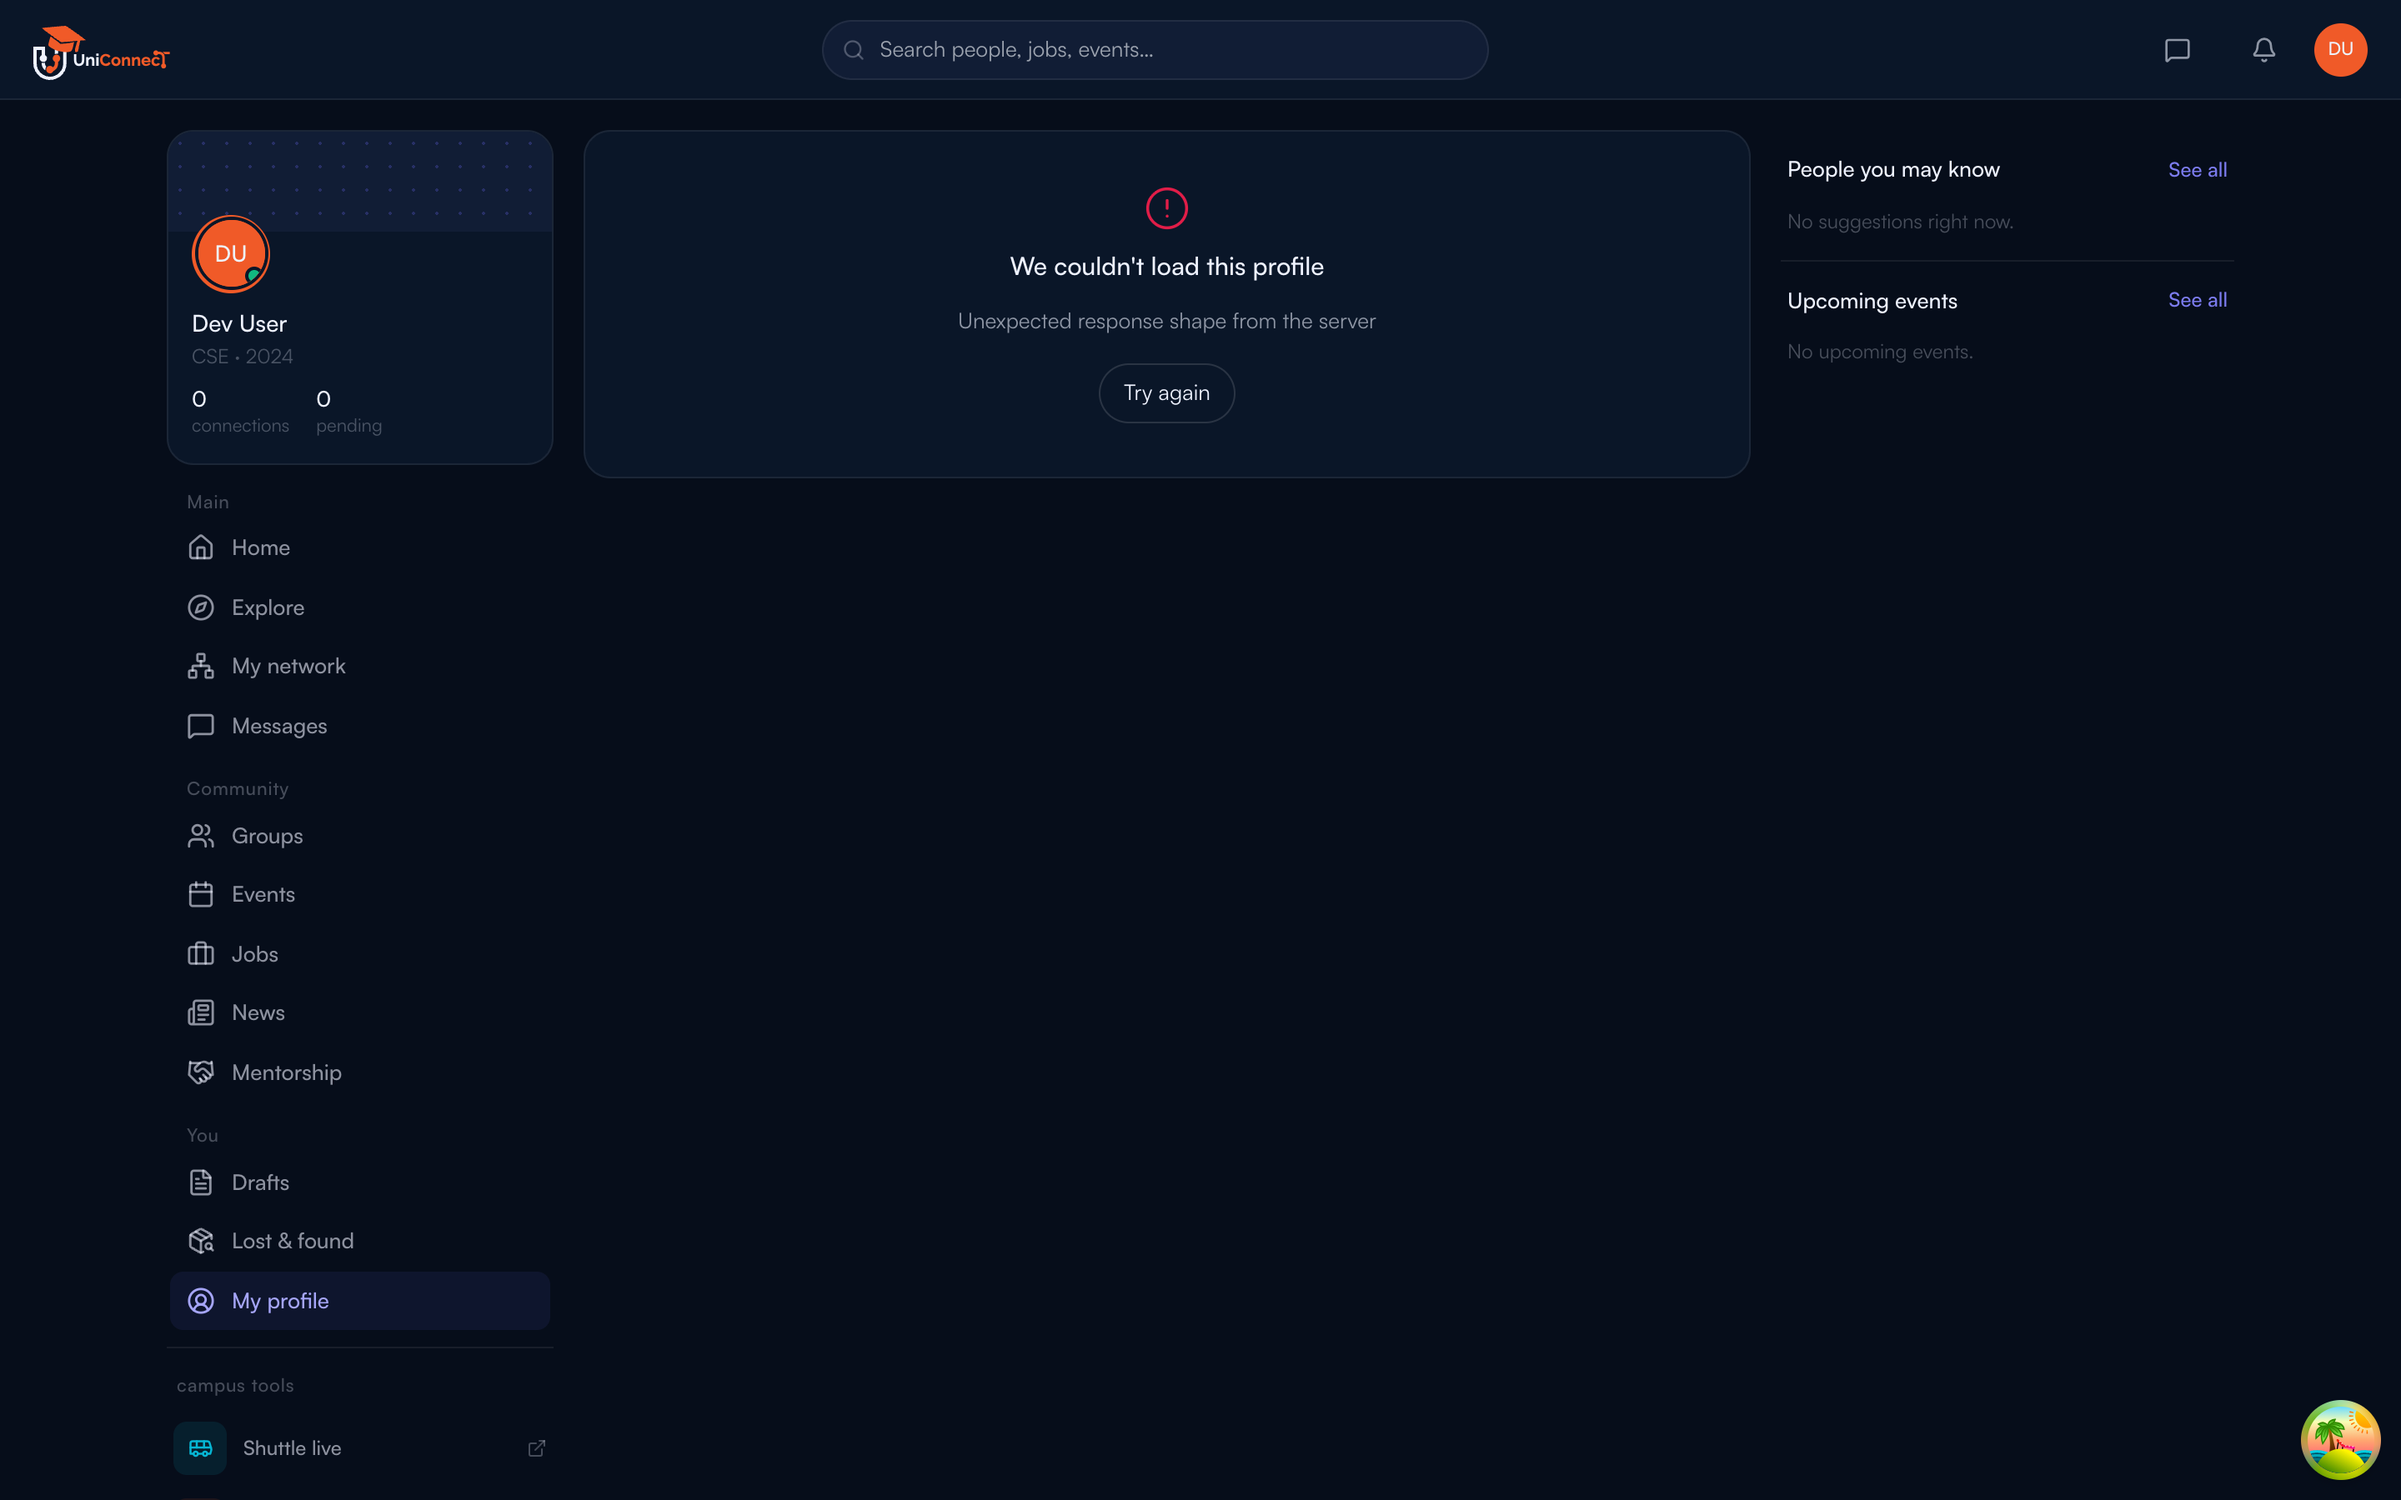
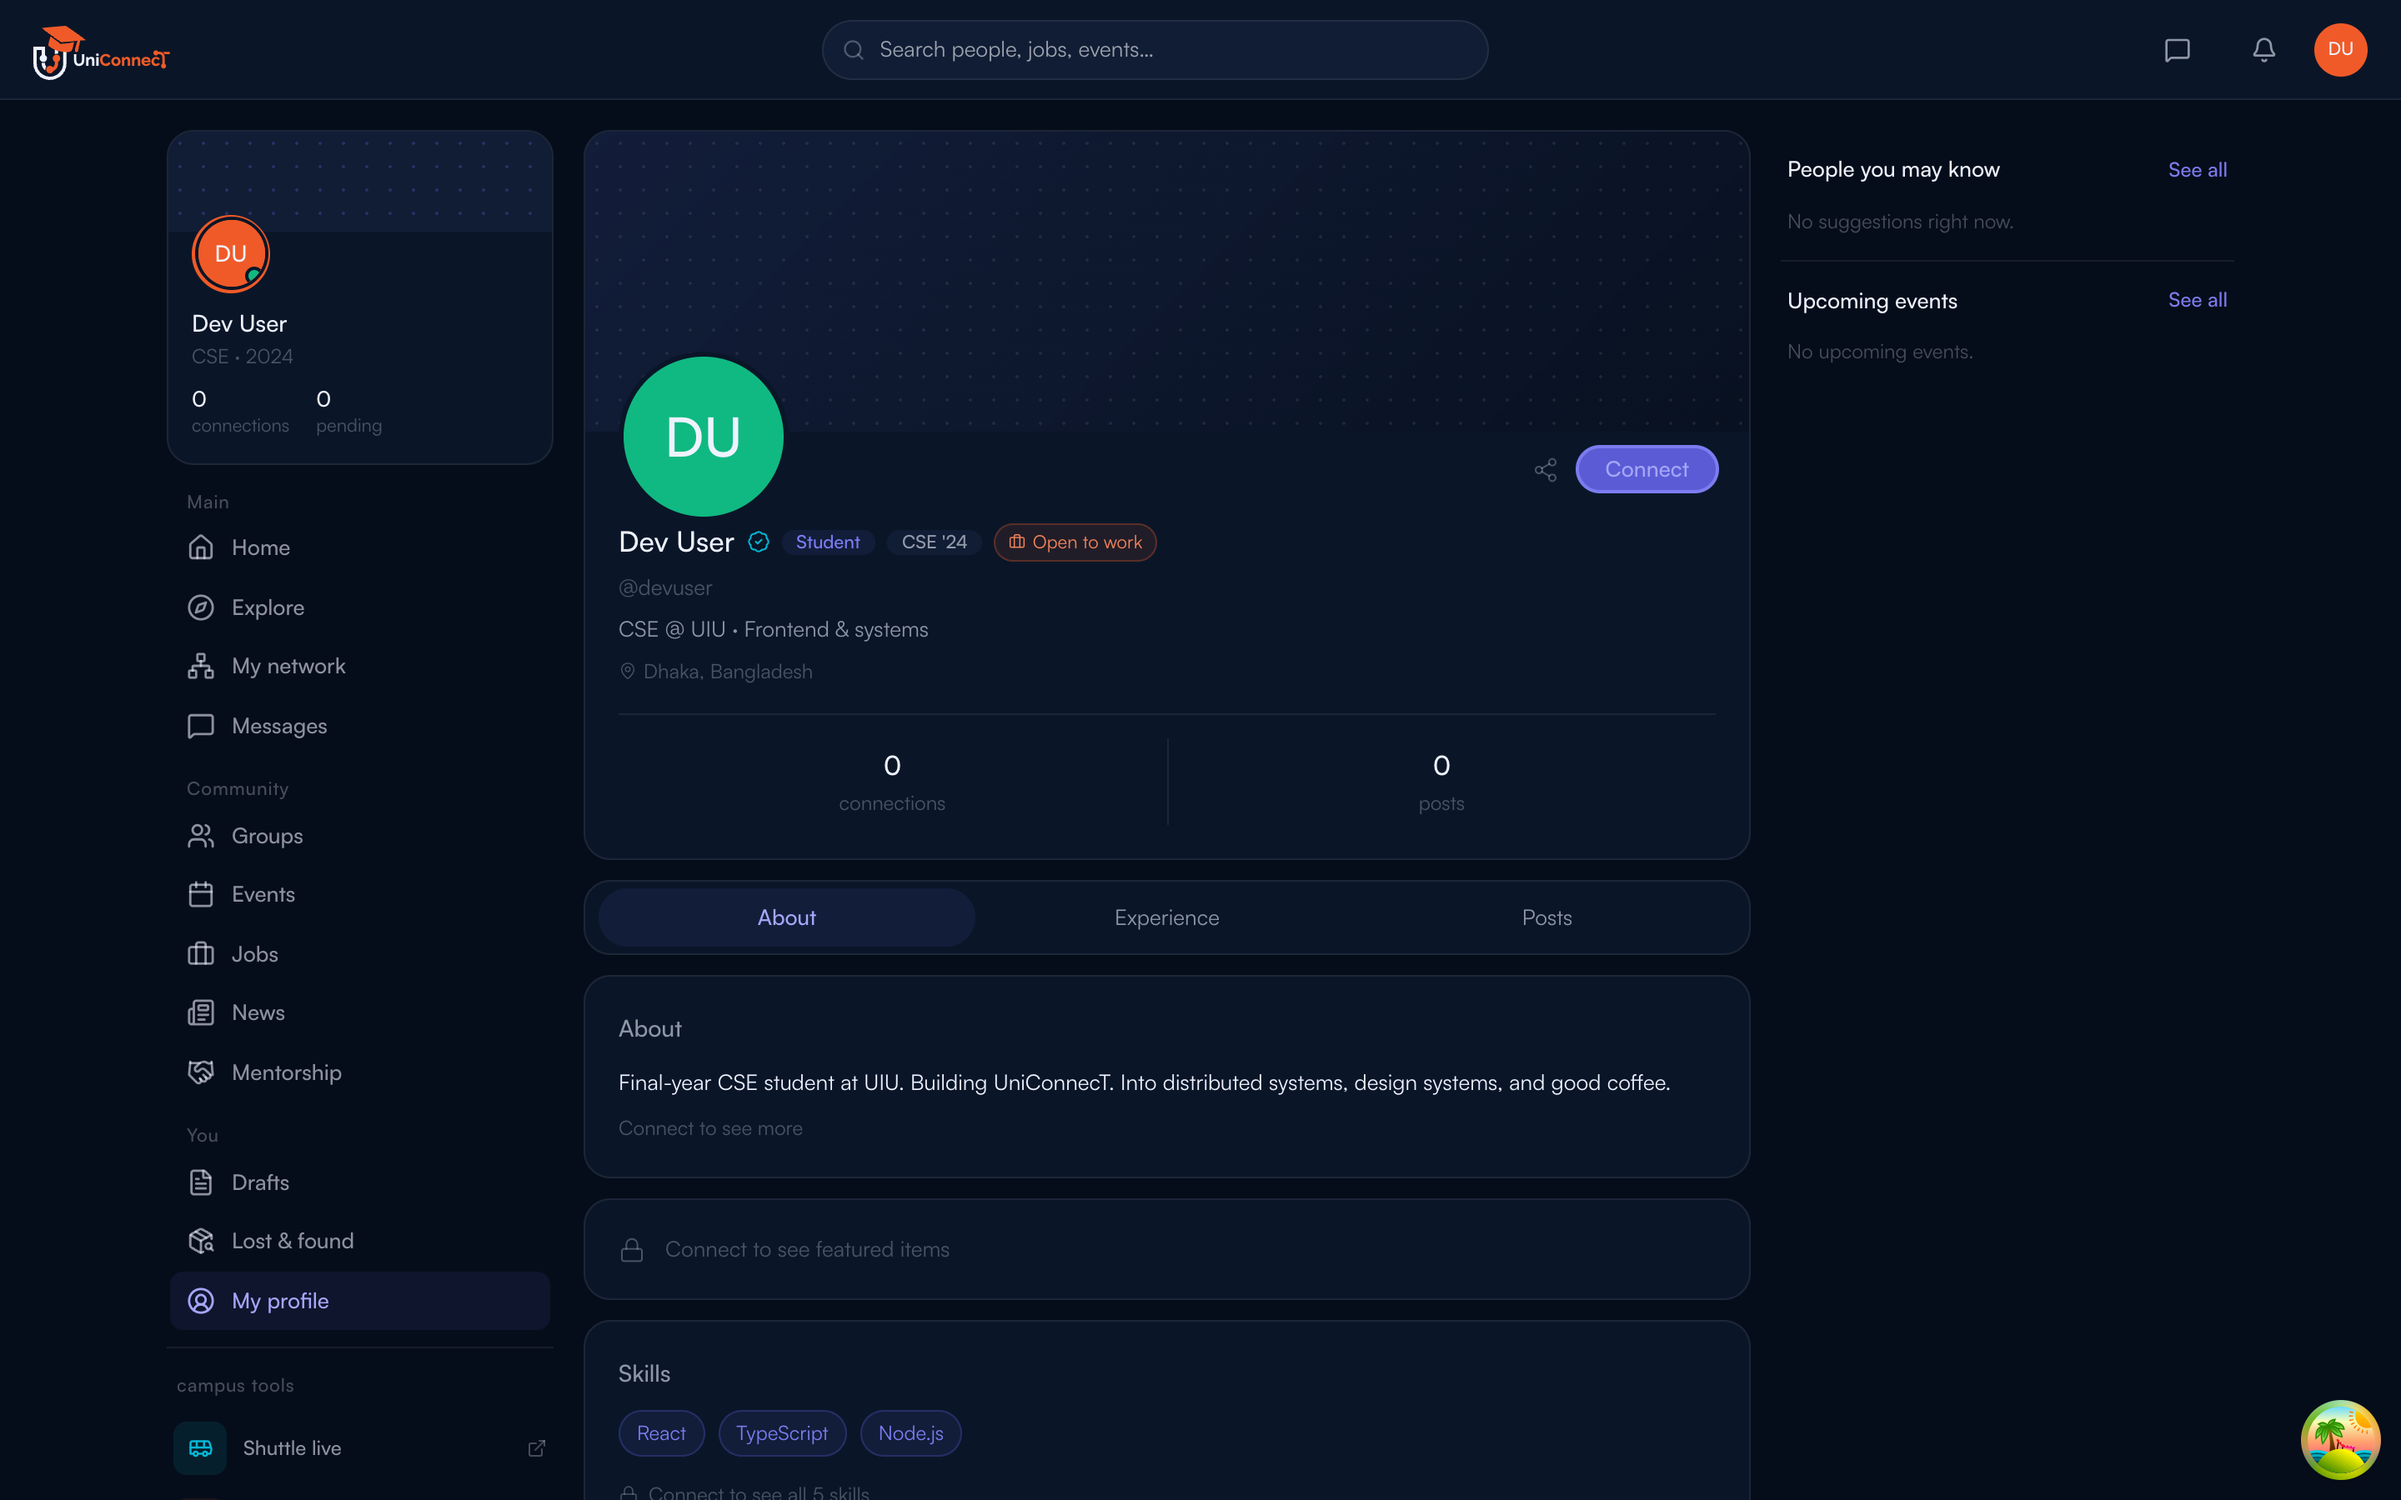
editied by user

diff --git a/apps/web/src/lib/devMocks.ts b/apps/web/src/lib/devMocks.ts
@@ -1,0 +1,95 @@
+import axios, { type AxiosResponse, type InternalAxiosRequestConfig } from 'axios'
+import type { PublicUserProfile } from '@uniconnect/shared'
+import { api } from '@/lib/axios'
+
+/**
+ * DEV-ONLY backend stub for the `?dev-auth=1` design-verification flow.
+ *
+ * The screenshot harness runs the real app with no API server, so data-driven
+ * pages (e.g. the profile) would otherwise render their error state. This
+ * installs a tiny axios adapter that answers the handful of read endpoints the
+ * profile page hits with canned data, so captures show real UI (incl. the
+ * @username header). It is gated on `import.meta.env.DEV` + `dev-auth=1` and is
+ * never wired up in production builds.
+ */
+
+const DEV_PROFILE: PublicUserProfile & { visibility?: Record<string, unknown> } = {
+  id: '11111111-1111-4111-8111-111111111111',
+  username: 'devuser',
+  email: 'dev@uiu.ac.bd',
+  role: 'student',
+  universityId: '22222222-2222-4222-8222-222222222222',
+  isVerified: true,
+  themePreference: 'dark',
+  isActive: true,
+  lastActiveAt: null,
+  createdAt: '2024-01-01T00:00:00.000Z',
+  profile: {
+    fullName: 'Dev User',
+    bio: 'Final-year CSE student at UIU. Building UniConnecT. Into distributed systems, design systems, and good coffee.',
+    avatarUrl: null,
+    coverUrl: null,
+    headline: 'CSE @ UIU · Frontend & systems',
+    department: 'CSE',
+    batchYear: '2024',
+    linkedinUrl: 'https://linkedin.com/in/devuser',
+    phone: null,
+    skills: ['React', 'TypeScript', 'Node.js', 'PostgreSQL', 'Design systems'],
+    isOpenToWork: true,
+    isOpenToMentorship: false,
+    mentorshipPoints: 0,
+    location: 'Dhaka, Bangladesh',
+    websiteUrl: null,
+    githubUrl: 'https://github.com/devuser',
+    portfolioUrl: null,
+    isOpenToMsg: true,
+  },
+  connectionStatus: 'none',
+  connectionId: null,
+  mutualConnections: 0,
+  stats: { connections: 0, pendingReceived: 0, posts: 0 },
+}
+
+/** Returns the HTTP body to fake for a GET, or null to defer to the real adapter. */
+function resolveMockBody(url: string): unknown | null {
+  if (/\/users\/by-username\/[^/]+$/.test(url)) return { data: DEV_PROFILE }
+  if (/\/users\/me\/analytics$/.test(url))
+    return { data: { profileViews: { last7d: 18, last30d: 64, last90d: 142 }, postReach: { reactions: 23, comments: 7, total: 30 } } }
+  if (/\/users\/me\/viewers$/.test(url)) return { data: { items: [], total: 0, page: 1 } }
+  if (/\/users\/[^/]+\/experience$/.test(url)) return { data: [] }
+  if (/\/users\/[^/]+\/education$/.test(url)) return { data: [] }
+  if (/\/users\/[^/]+\/featured$/.test(url)) return { data: [] }
+  if (/\/presence$/.test(url)) return { data: [] }
+  if (/\/users\/suggestions$/.test(url)) return { data: [] }
+  // Bare `/users/:id` (e.g. the left-sidebar mini profile) — keep last so the
+  // more specific routes above win.
+  if (/\/users\/[^/]+$/.test(url)) return { data: DEV_PROFILE }
+  return null
+}
+
+let installed = false
+
+export function installDevMocks(): void {
+  if (installed) return
+  installed = true
+
+  const realAdapter = axios.getAdapter(api.defaults.adapter ?? axios.defaults.adapter)
+
+  api.defaults.adapter = async (config: InternalAxiosRequestConfig) => {
+    const method = (config.method ?? 'get').toLowerCase()
+    const url = config.url ?? ''
+    if (method === 'get') {
+      const body = resolveMockBody(url)
+      if (body !== null) {
+        return {
+          data: body,
+          status: 200,
+          statusText: 'OK',
+          headers: {},
+          config,
+        } as AxiosResponse
+      }
+    }
+    return realAdapter(config)
+  }
+}

diff --git a/apps/web/src/main.tsx b/apps/web/src/main.tsx
@@ -8,6 +8,13 @@ import RootErrorBoundary from '@/components/ErrorBoundary'
 import './styles/index.css'
 import App from './App'
 
+// DEV-only: when running the design-verification flow (?dev-auth=1) without a
+// backend, stub the read endpoints so data pages render real UI for screenshots.
+if (import.meta.env.DEV && new URLSearchParams(window.location.search).get('dev-auth') === '1') {
+  const { installDevMocks } = await import('@/lib/devMocks')
+  installDevMocks()
+}
+
 createRoot(document.getElementById('root')!).render(
   <StrictMode>
     <RootErrorBoundary>
